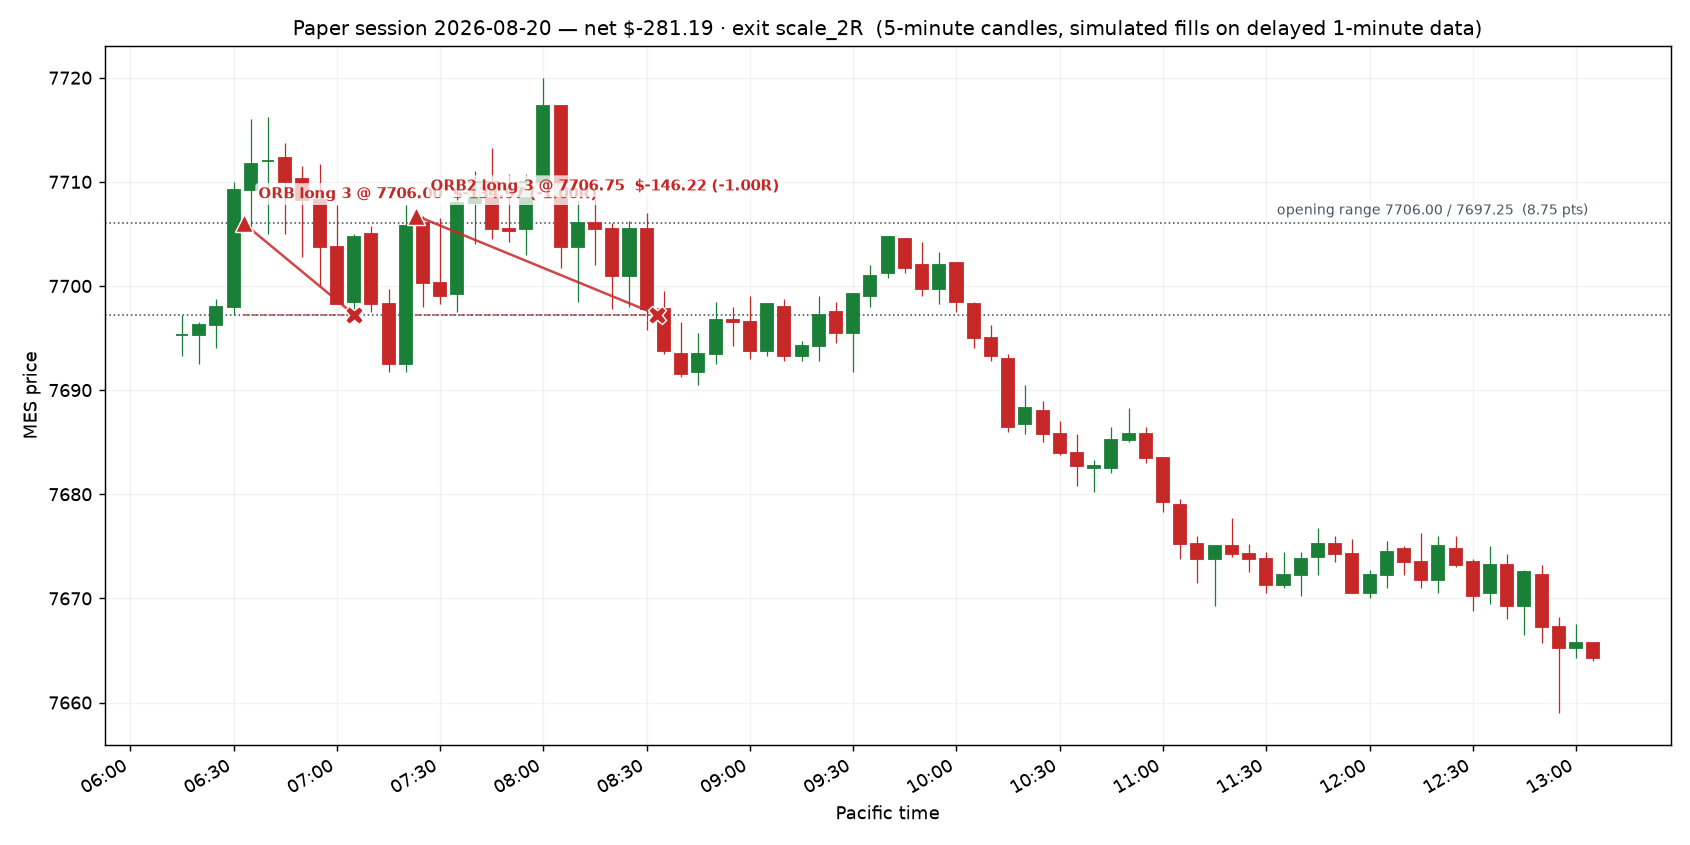
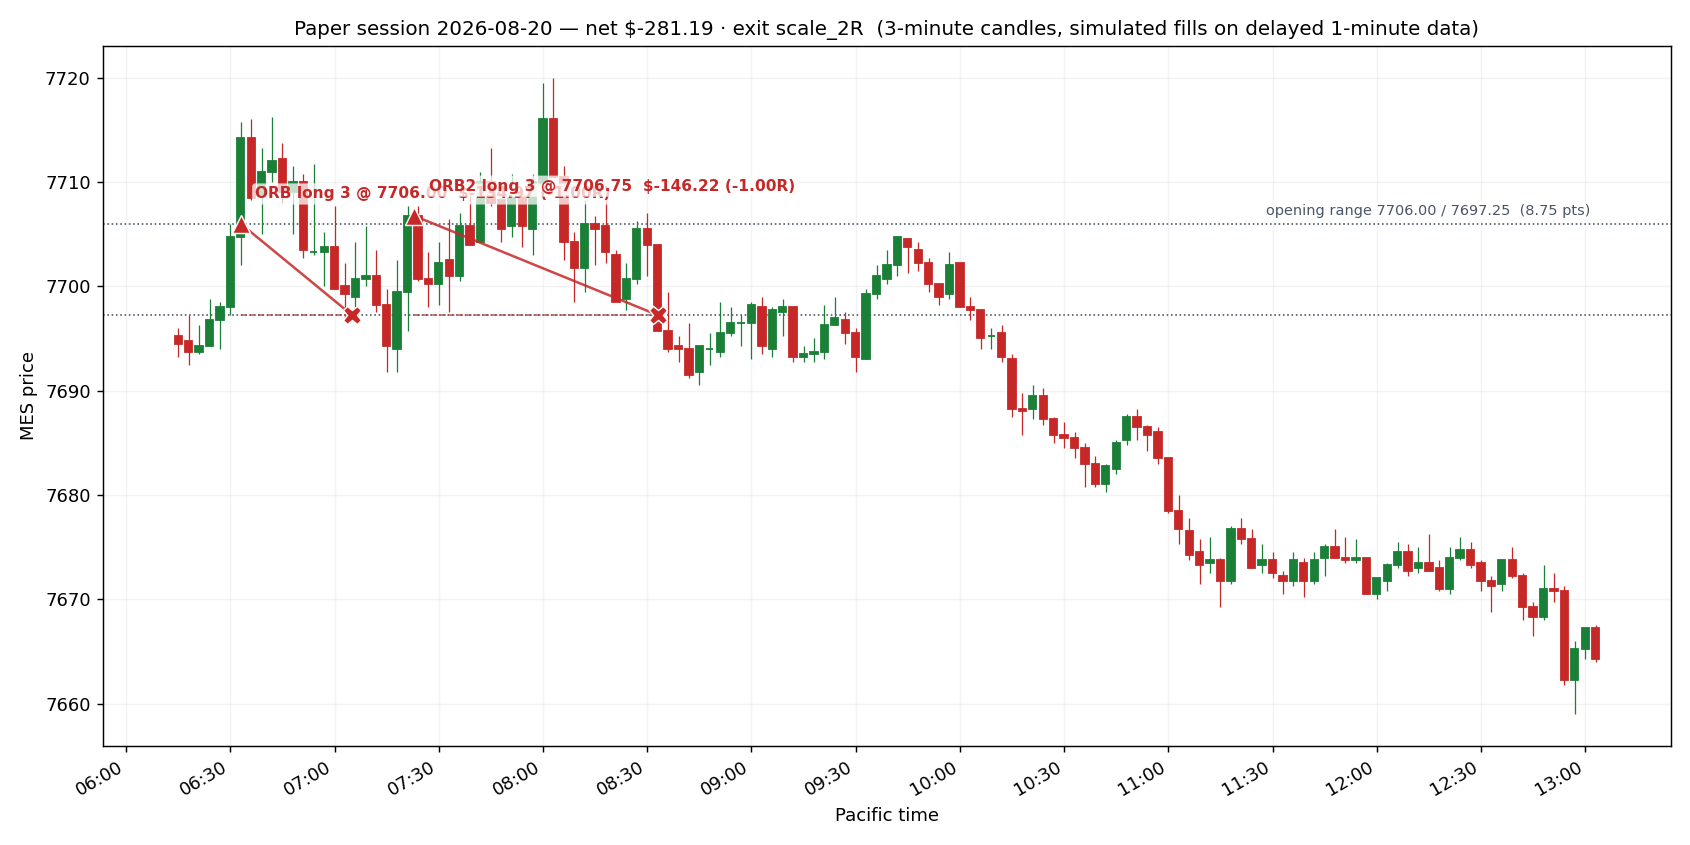
Draw the session chart on 3-minute candles

diff --git a/chart.py b/chart.py
@@ -25,7 +25,7 @@ LEVEL = "#4a5568"
 # window are dropped unless that would leave nothing to draw.
 WINDOW = (time(6, 15), time(13, 5))
 
-CANDLE_MINUTES = 5
+CANDLE_MINUTES = 3
 
 
 @dataclass

diff --git a/README.md b/README.md
@@ -132,8 +132,8 @@ on (dashed), and the trade's net P&L and R. Drawn by `chart.py`, which needs `ma
 without it the report is written as before, just without the picture. Bars outside
 06:15–13:05 PT are left out so the trading day fills the frame.
 
-The engine trades the 1-minute bars; the chart aggregates them into **5-minute candles**,
-because a 400-candle day is unreadable at the entries. `--chart-minutes` changes the candle
+The engine trades the 1-minute bars; the chart aggregates them into **3-minute candles**, to
+match the opening candle the ORB rule is measured on. `--chart-minutes` changes the candle
 size (`--chart-minutes 1` for the raw bars) and never changes a trade — the markers sit on the
 exact minute either way.
 

diff --git a/reports/session-2026-08-20.md b/reports/session-2026-08-20.md
@@ -17,7 +17,7 @@
 
 ## The day on a chart
 
-![5-minute candles for 2026-08-20 with every trade marked](chart-2026-08-20.png)
+![3-minute candles for 2026-08-20 with every trade marked](chart-2026-08-20.png)
 
 Entry is the triangle, exit the cross, the dashed line is the stop that was working while the trade was on; the dotted levels are the opening range.
 

diff --git a/reports/shadow/session-2026-08-20.md b/reports/shadow/session-2026-08-20.md
@@ -16,7 +16,7 @@
 
 ## The day on a chart
 
-![5-minute candles for 2026-08-20 with every trade marked](chart-2026-08-20.png)
+![3-minute candles for 2026-08-20 with every trade marked](chart-2026-08-20.png)
 
 Entry is the triangle, exit the cross, the dashed line is the stop that was working while the trade was on; the dotted levels are the opening range.
 
